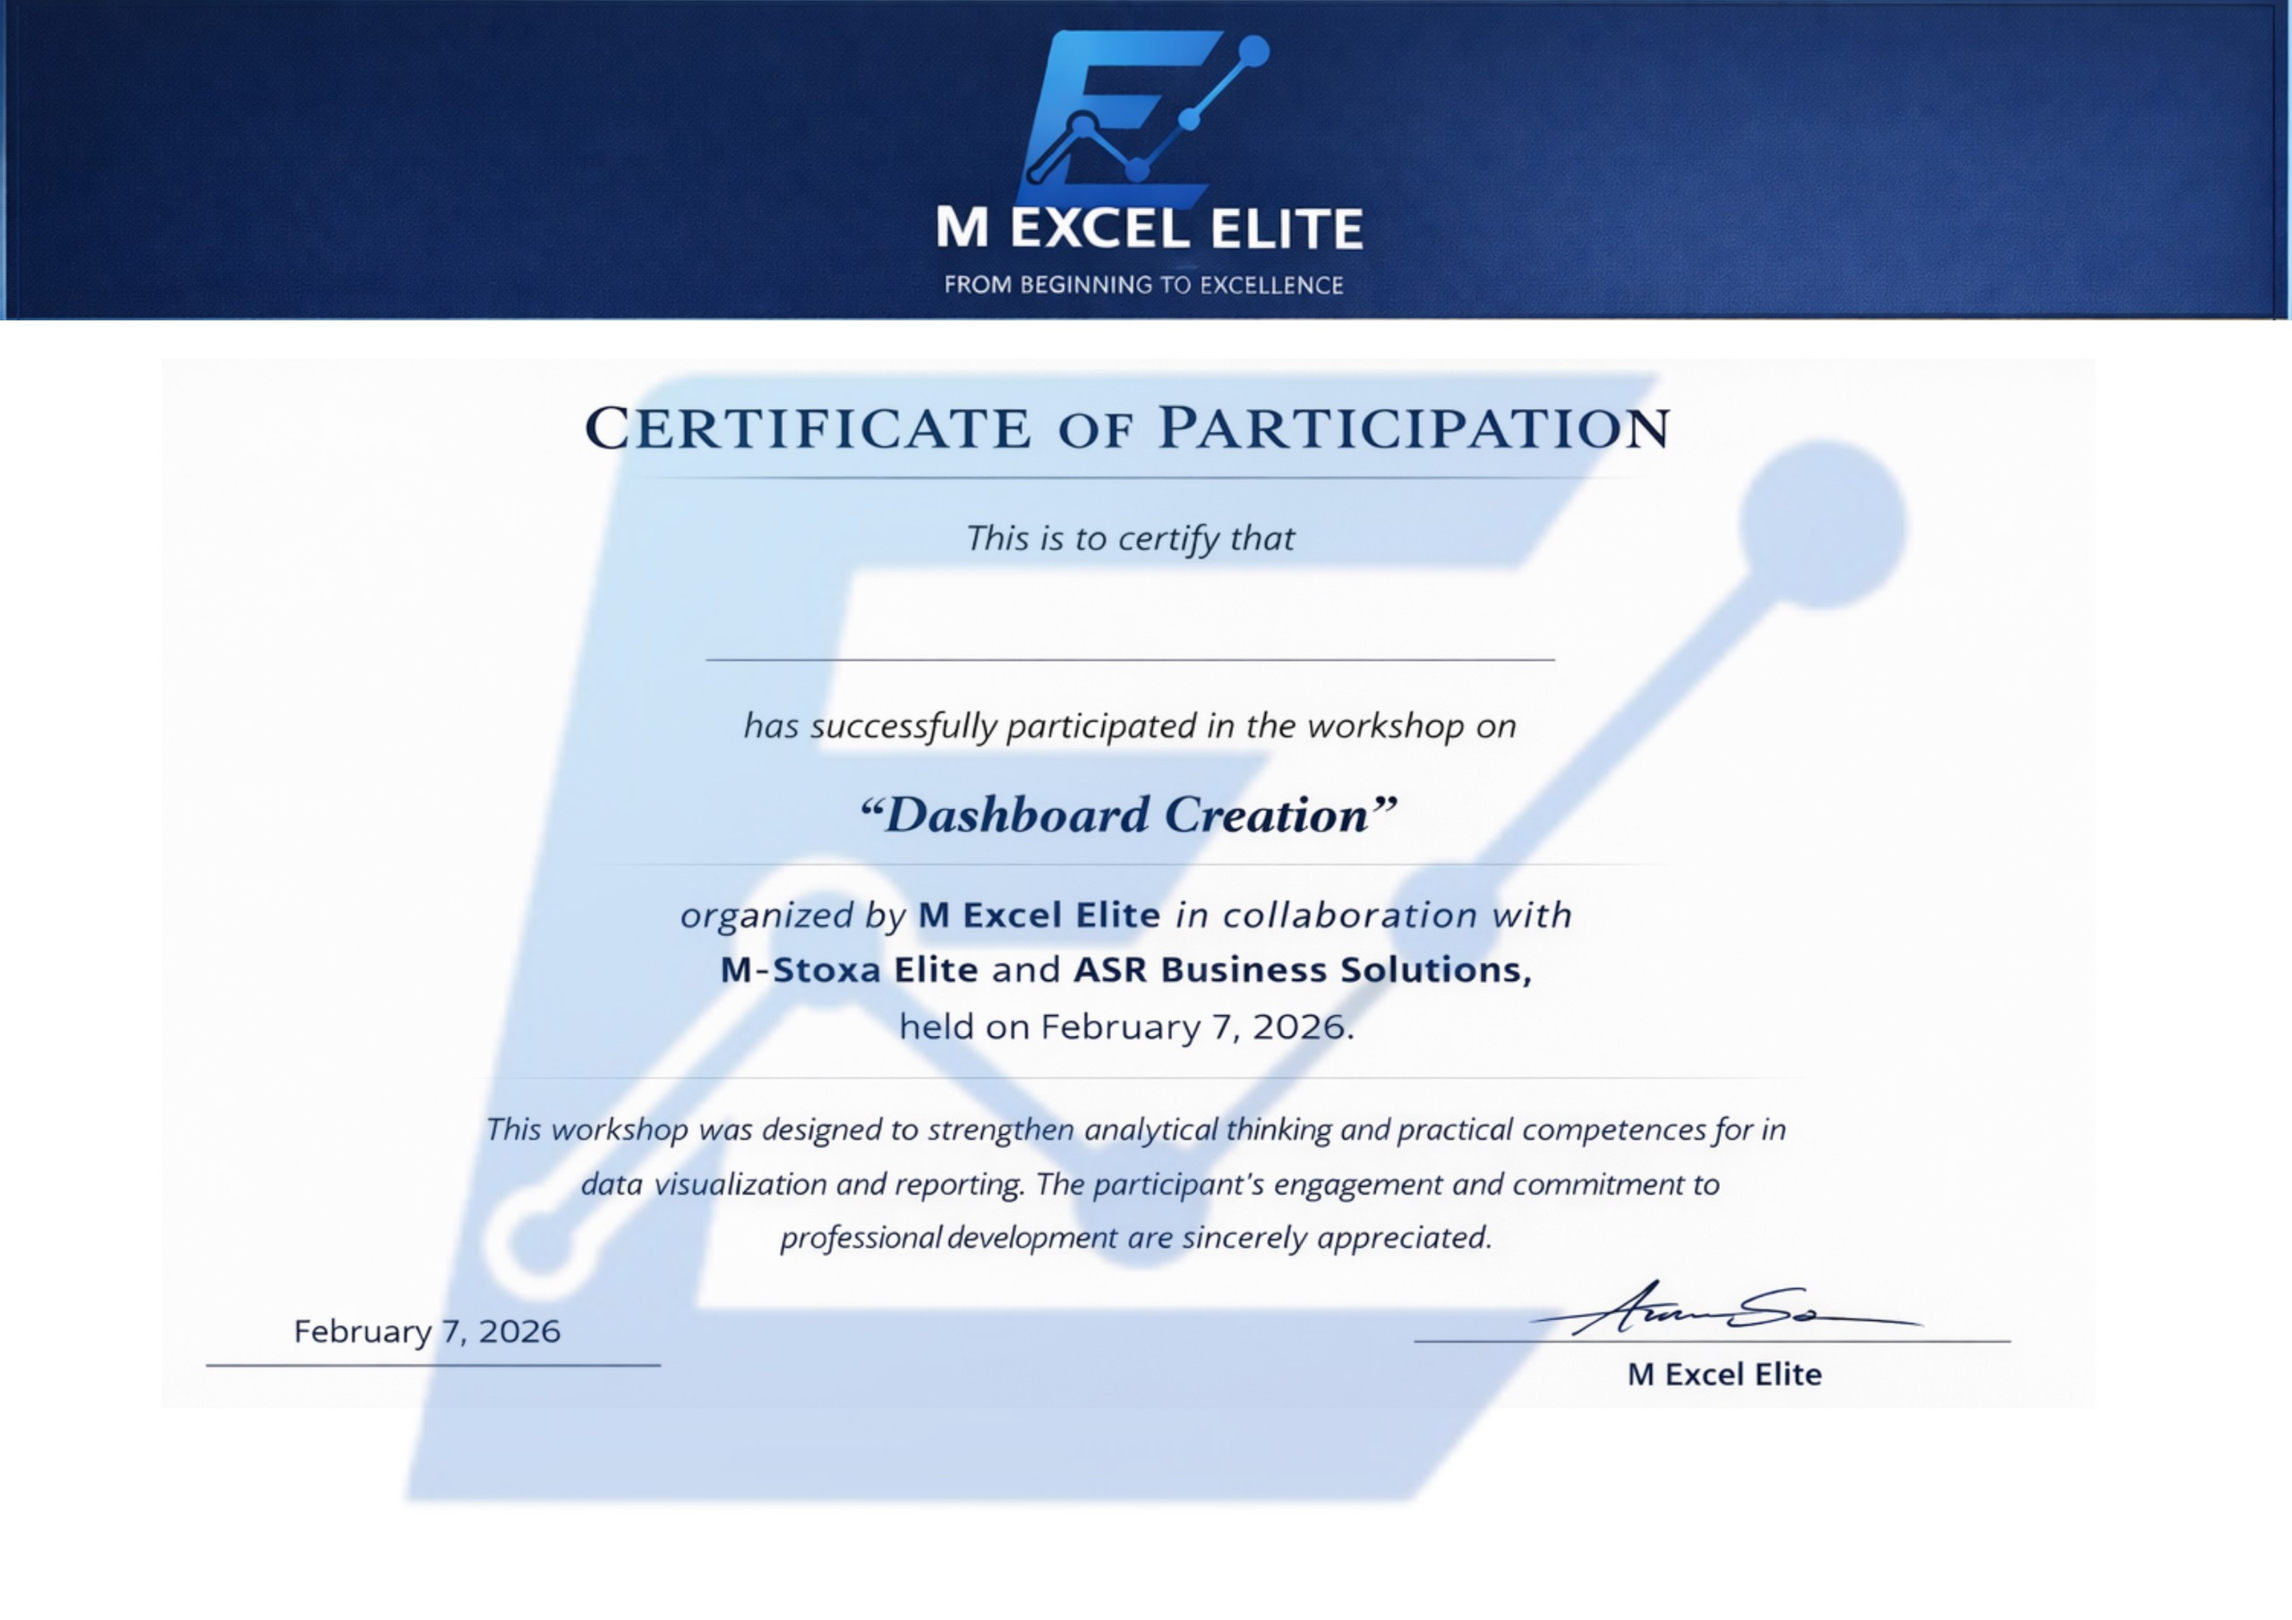
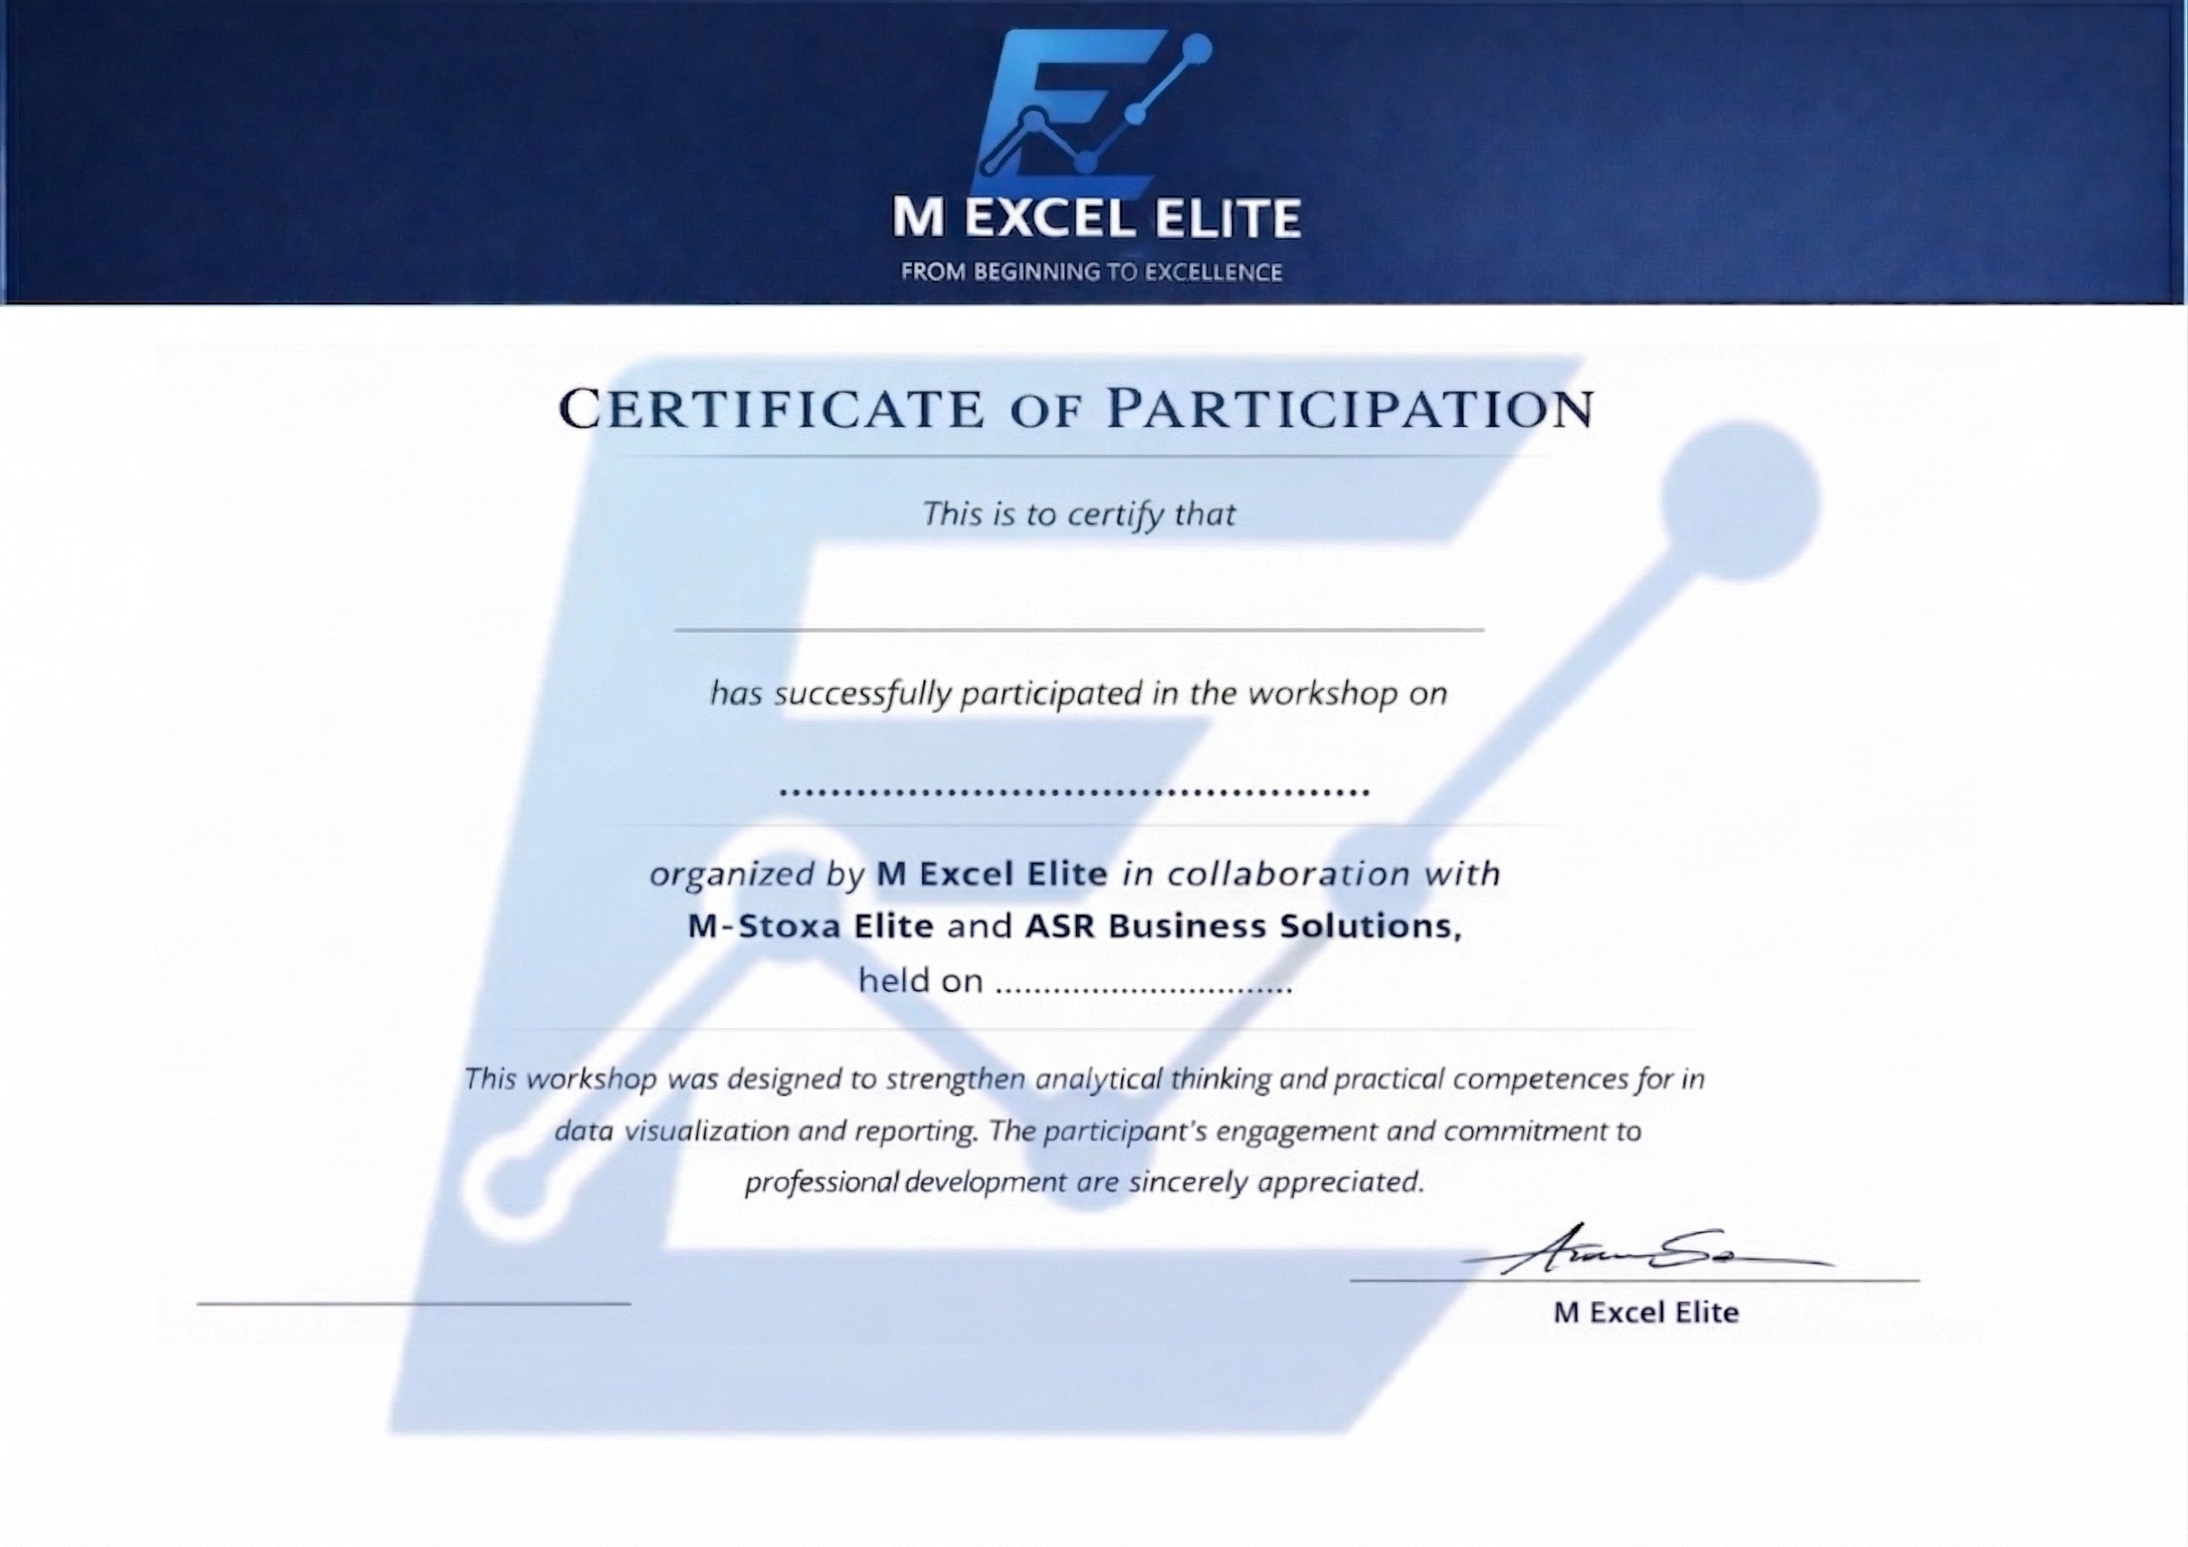
Add files via upload

diff --git a/index.html b/index.html
@@ -22,7 +22,6 @@
         <p>"Performance Analysis Using Excel and Power Query"</p>
         
         <input type="text" id="name" placeholder="Enter Participant Name">
-        
         <input type="date" id="date">
         
         <button onclick="generateCertificate()">Download My Certificate</button>
@@ -54,40 +53,31 @@
             img.src = 'template.jpeg'; 
             
             img.onload = function() {
+                // Draw the clean template image
                 ctx.drawImage(img, 0, 0, canvas.width, canvas.height);
-                
-                
-                ctx.fillStyle = "white";
-                ctx.fillRect(700, 680, 600, 70);   
-                
-                
-                ctx.fillRect(80, 1100, 450, 100);  
-                
-                
-                ctx.fillRect(800, 850, 480, 80); 
 
-                
+                // Setup text styling
                 ctx.fillStyle = '#112244'; 
                 ctx.textAlign = 'center';
 
-                
+                // Workshop Title
                 ctx.font = 'italic bold 55px Georgia, serif';
                 ctx.fillText('"Performance Analysis Using Excel and Power Query"', 1000, 725);
 
-                
+                // Name
                 ctx.font = 'bold 85px serif';
                 ctx.fillText(name.toUpperCase(), 1000, 580);
 
-                
+                // Bottom Date
                 ctx.font = '45px serif';
                 ctx.textAlign = 'left';
                 ctx.fillText(formattedDate, 100, 1165); 
                 
-                
+                // Center Date
                 ctx.textAlign = 'center';
                 ctx.fillText(formattedDate, 1040, 905);
 
-               
+                // Download Process
                 const link = document.createElement('a');
                 link.download = `Certificate_${name.replace(/\s+/g, '_')}.png`;
                 link.href = canvas.toDataURL('image/png', 1.0);
@@ -95,7 +85,7 @@
             };
             
             img.onerror = function() {
-                alert("Error: Image not Found.");
+                alert("Error: Image not found. Please check 'template.jpeg' on GitHub.");
             };
         }
     </script>
